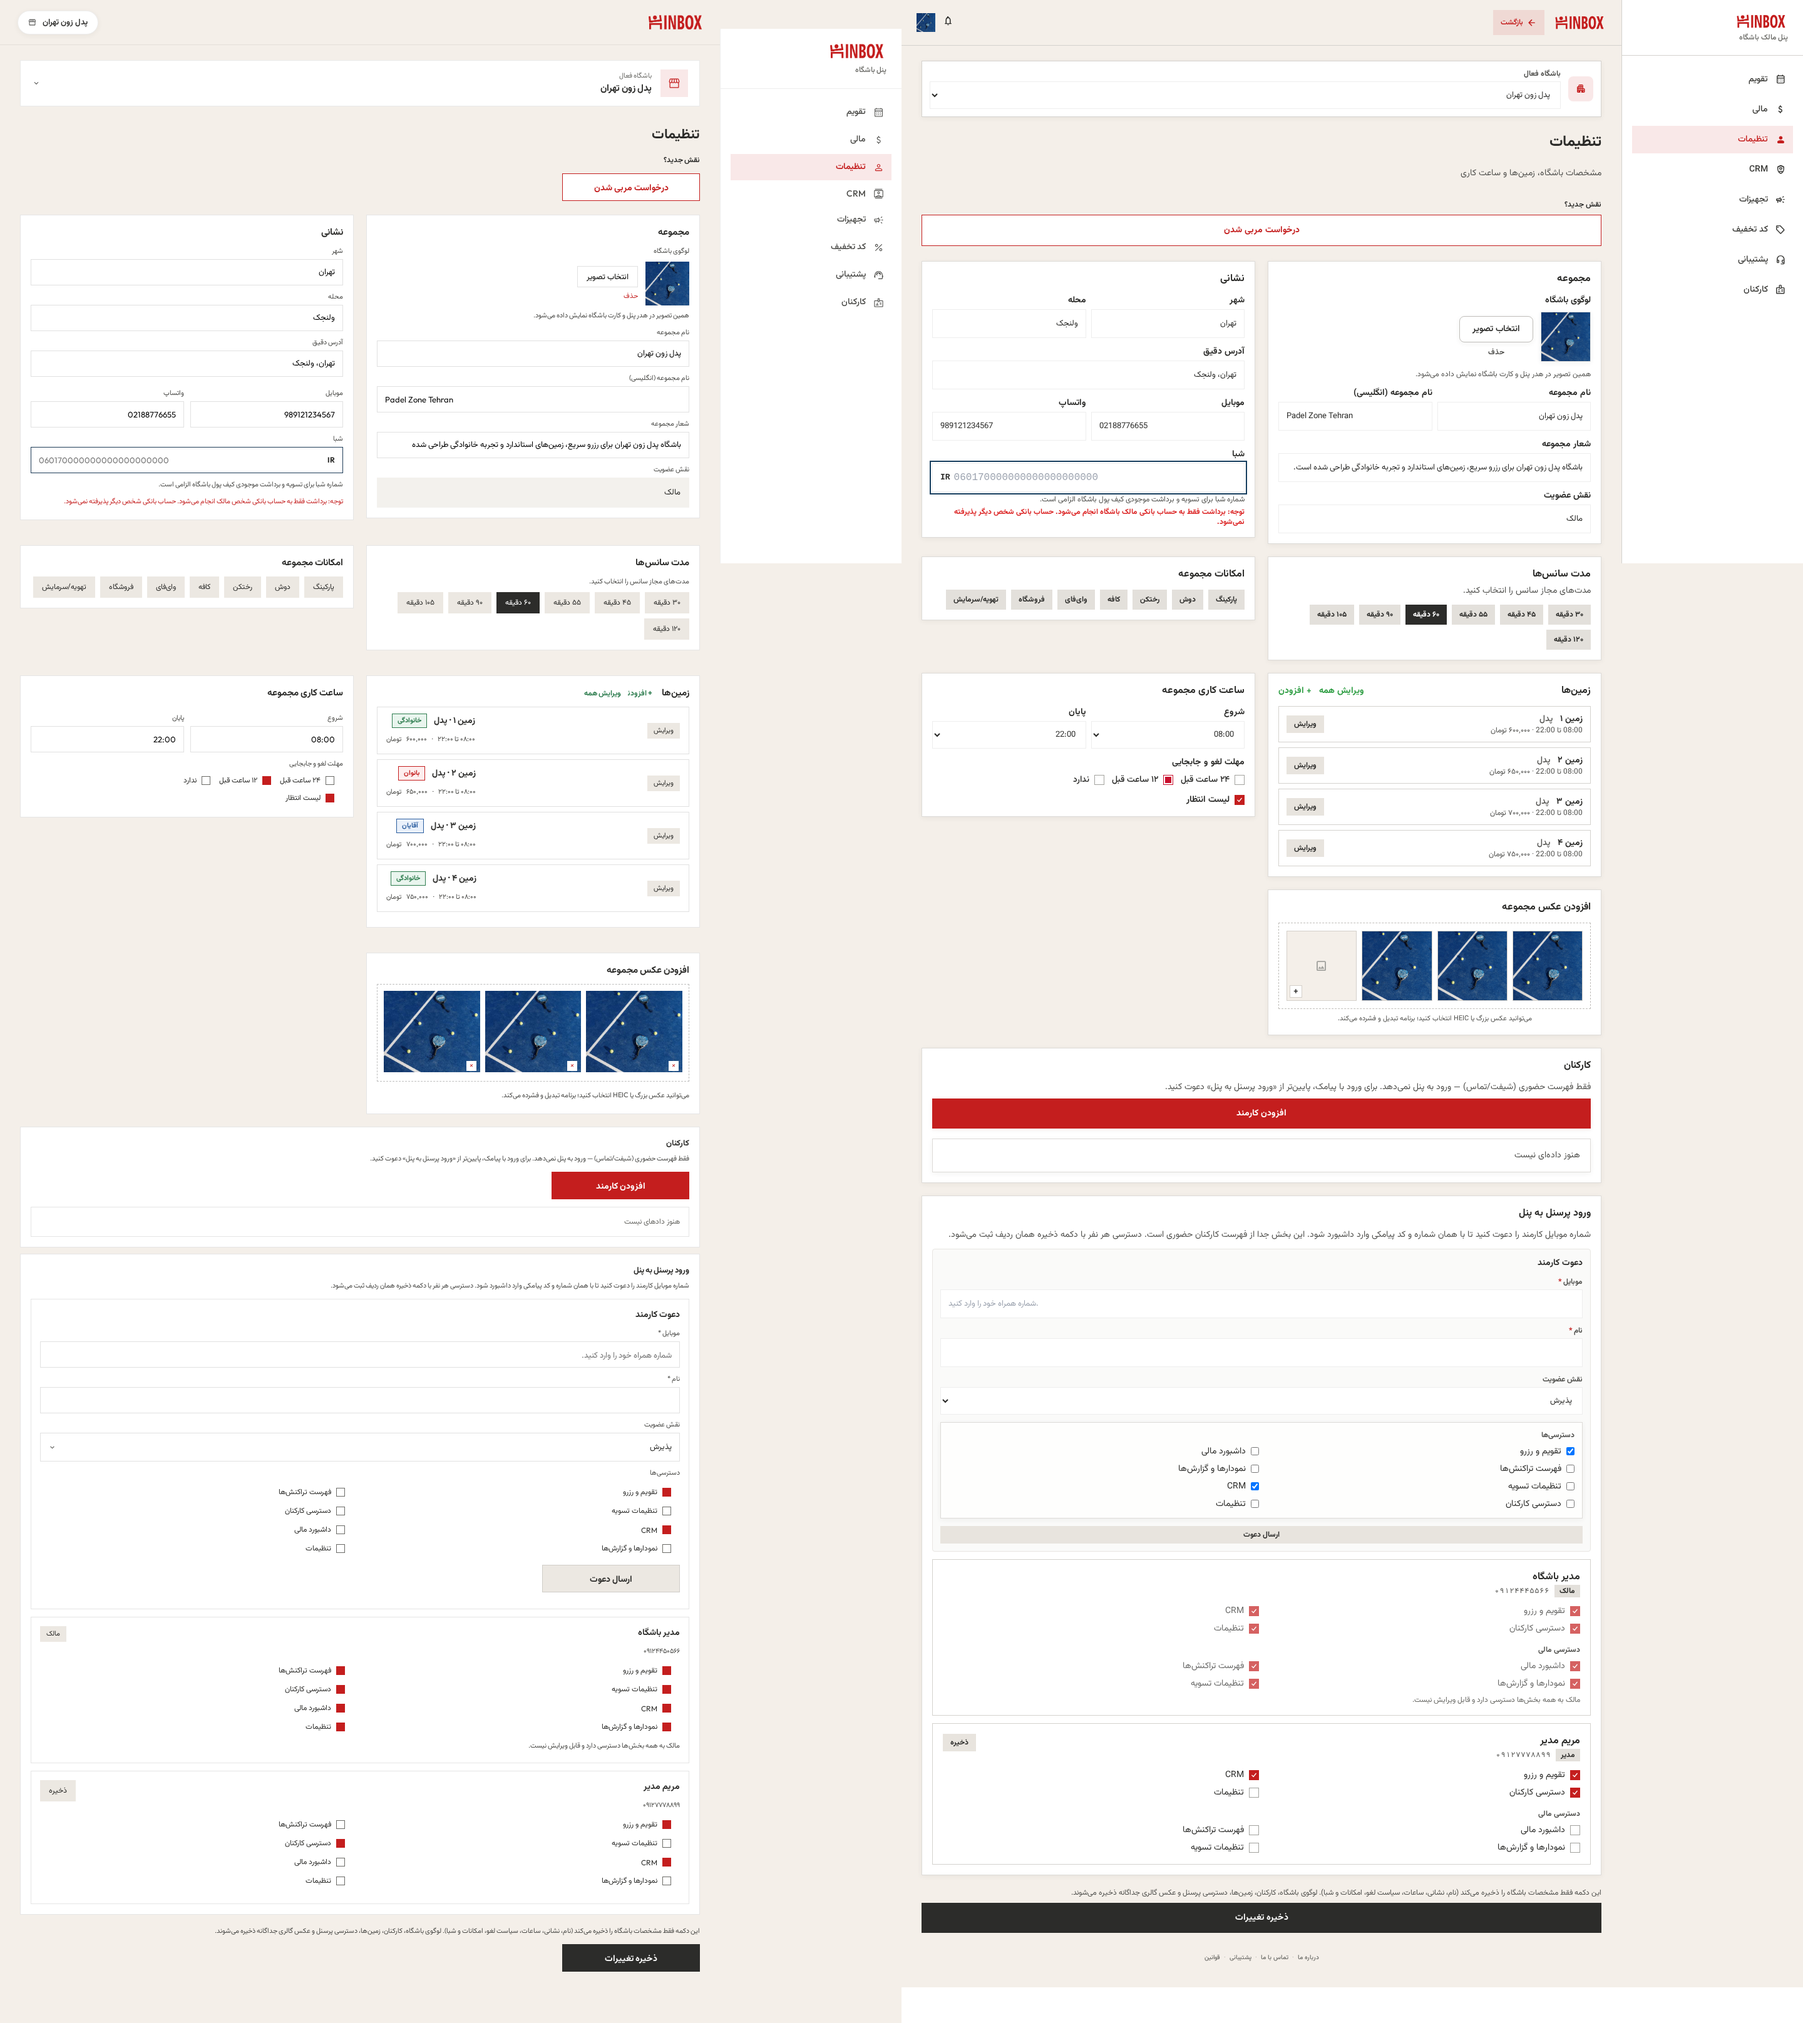
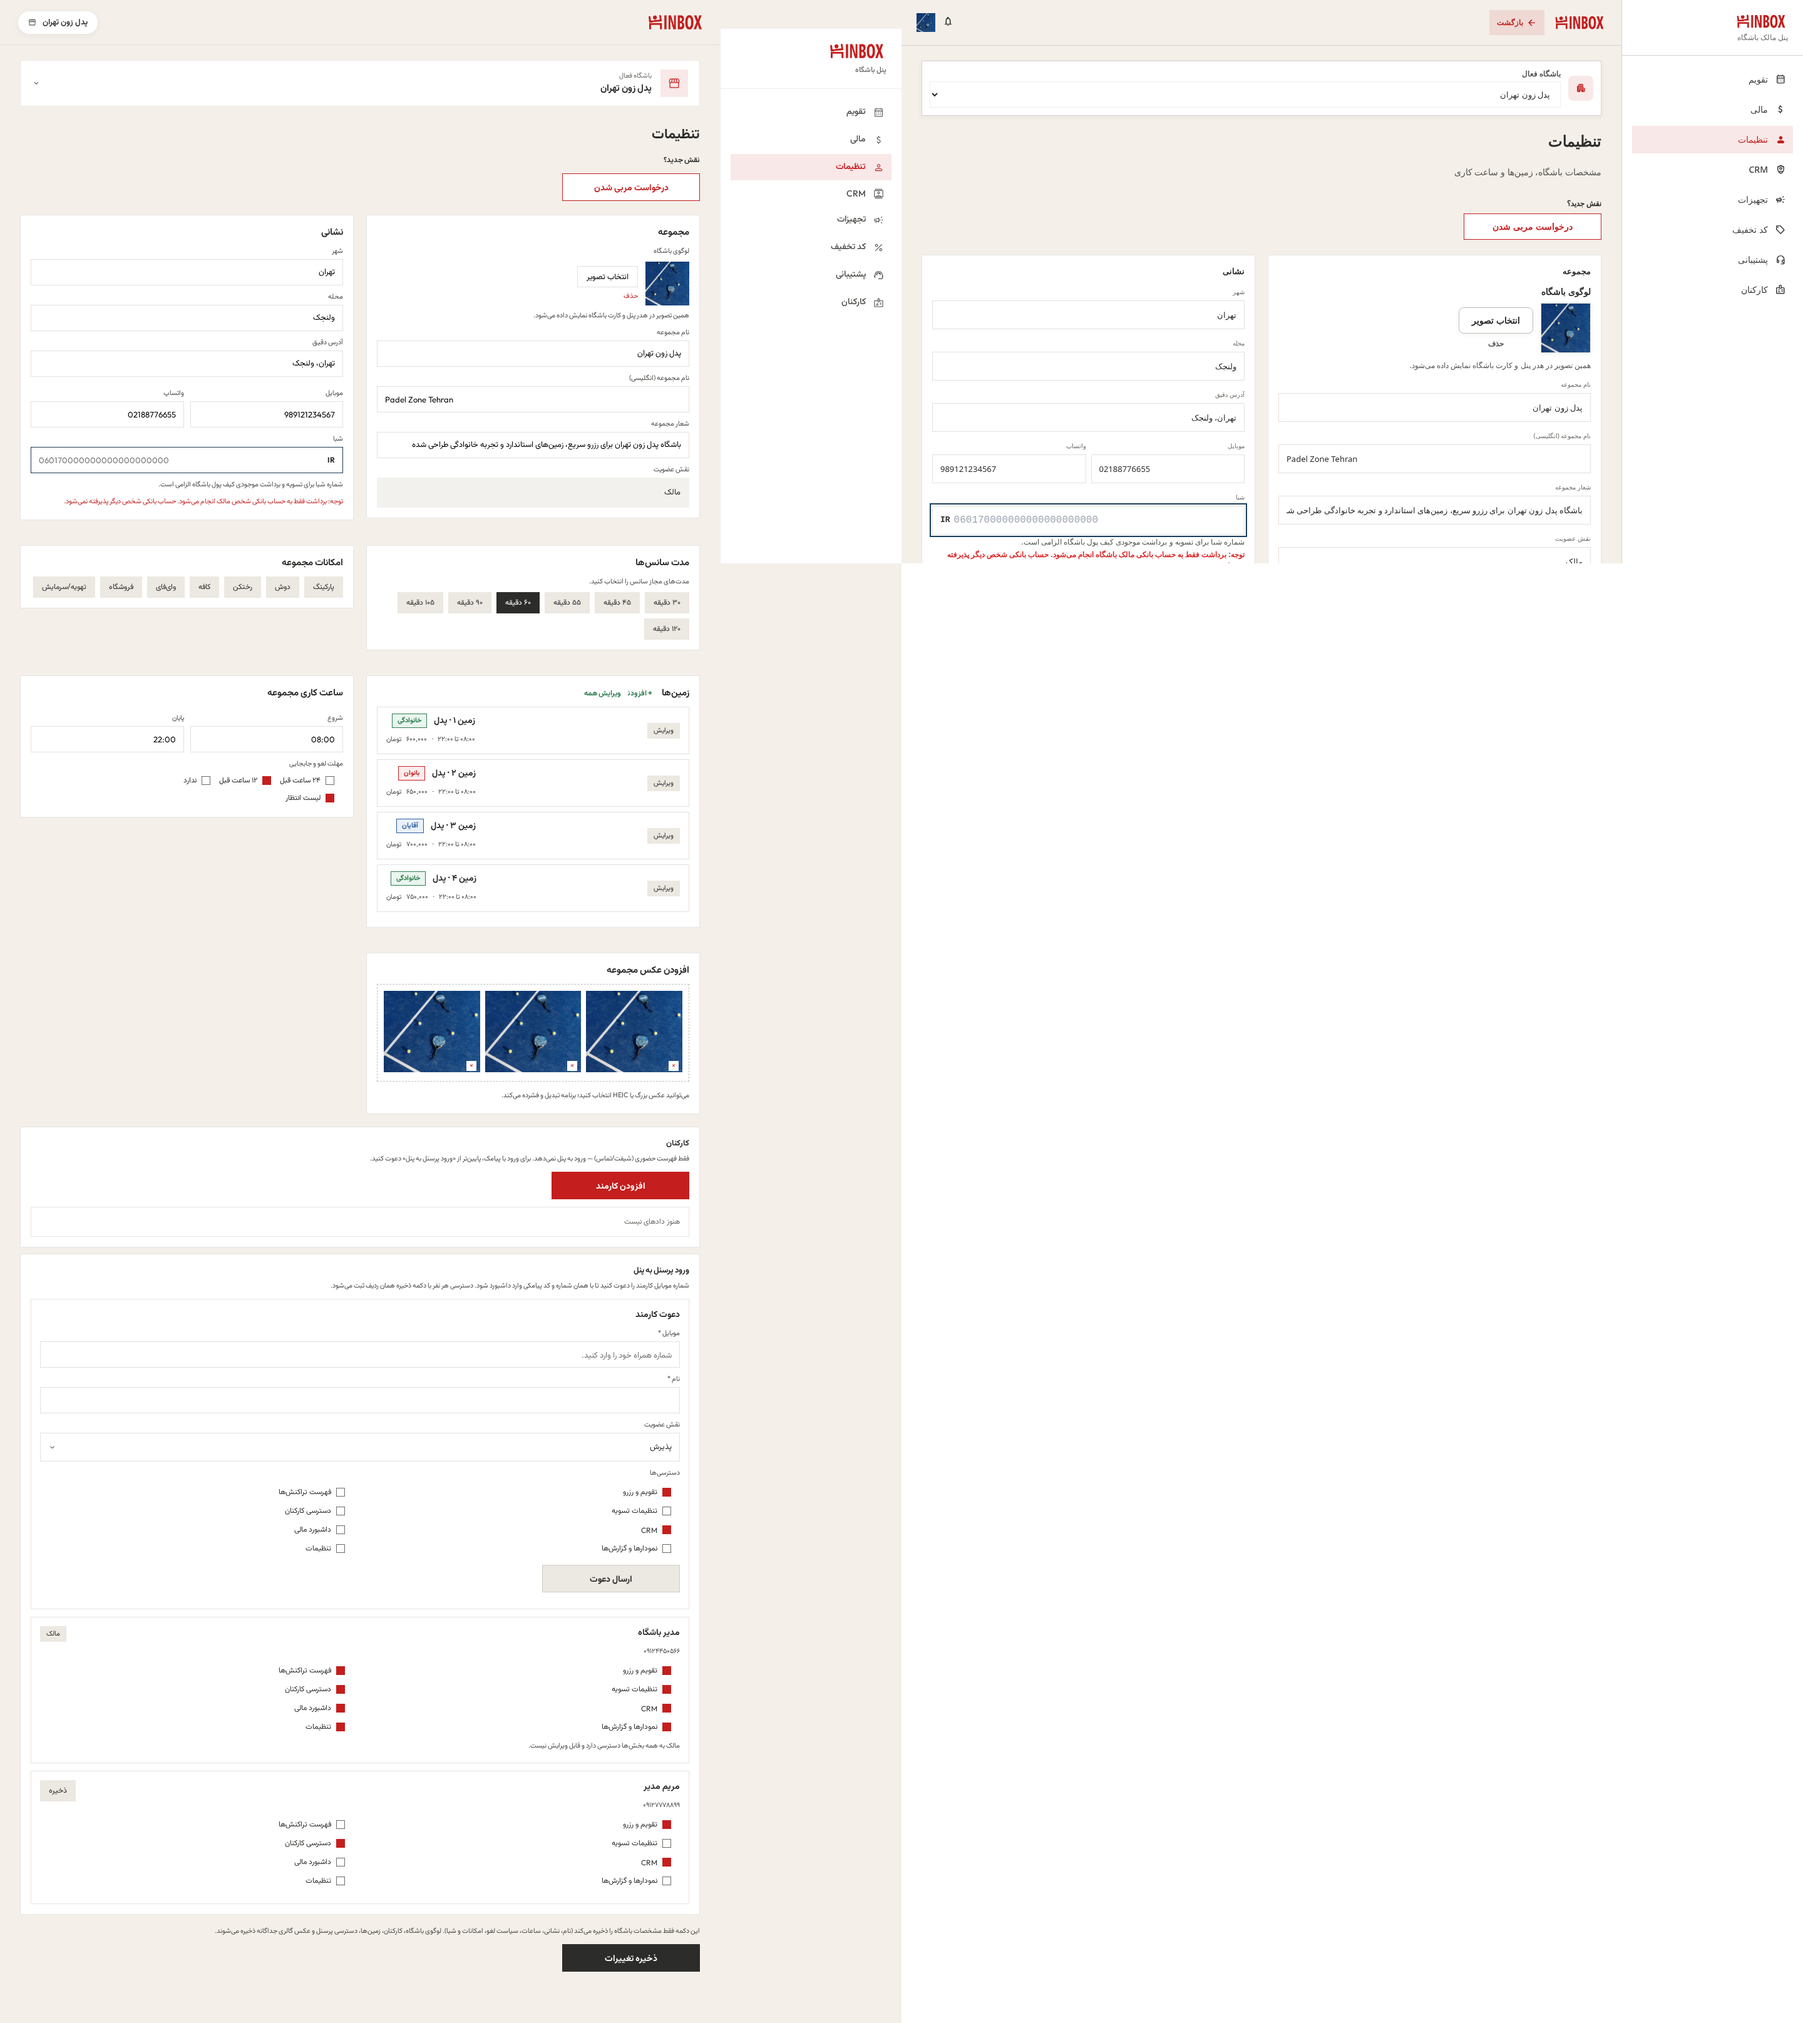
fidelity(owner-settings): SoT cxbox — stacked fields, small gray labels, flat panels, compact role CTA

diff --git a/app/pages/owner/settings.vue b/app/pages/owner/settings.vue
@@ -564,7 +564,7 @@ const hourOptions = computed(() => Array.from({ length: 25 }, (_, i) => i))
 </script>
 
 <template>
-  <div class="venus-page-stack">
+  <div class="venus-page-stack owner-settings-page">
     <!-- HTML m5 set tab: photo banner + cxh title (not crimson dash hero) -->
     <section class="canva-photo-hero hidden max-[430px]:block">
       <CanvaHeroImg
@@ -638,7 +638,7 @@ const hourOptions = computed(() => Array.from({ length: 25 }, (_, i) => i))
             <span class="mb-1 block font-bold">{{ t('owner.settingsPage.addressExact') }}</span>
             <input v-model="form.addressFa" required class="neo-input">
           </label>
-          <div class="grid grid-cols-2 gap-2">
+          <div class="grid grid-cols-2 gap-2 owner-settings-pair">
             <label class="block text-sm">
               <span class="mb-1 block font-bold">{{ t('common.mobile') }}</span>
               <input v-model="form.phone" dir="ltr" class="neo-input tabular-nums">

diff --git a/app/assets/css/main.css b/app/assets/css/main.css
@@ -4813,3 +4813,15 @@
   .canva-public-footer > div:last-child { color:#6b6b67; font-weight:400 }
   .canva-public-footer > div.mb-2 { margin-bottom:0 }
 }
+
+/* owner-settings — SoT cxbox panels: stacked fields, small gray labels, flat panels */
+@media (min-width: 1024px) {
+  .owner-settings-page .canva-panel { box-shadow:none; border:1px solid rgba(44,44,42,.12); border-radius:0 }
+  .owner-settings-page .canva-settings-wide > .canva-panel > .grid.grid-cols-2:not(.owner-settings-pair) { grid-template-columns:1fr; gap:.75rem }
+  .owner-settings-page .canva-panel label > span.font-bold:not([role]) { font-weight:400; font-size:10px; color:#6b6b67 }
+  .owner-settings-page .canva-panel .neo-input { min-height:30px; border-color:rgba(44,44,42,.14); border-radius:0 }
+  .owner-settings-page .canva-panel h2 { font-size:13px }
+}
+@media (min-width: 1024px) {
+  .owner-settings-page .canva-gate-btn-secondary { width:220px; padding-block:10px }
+}
